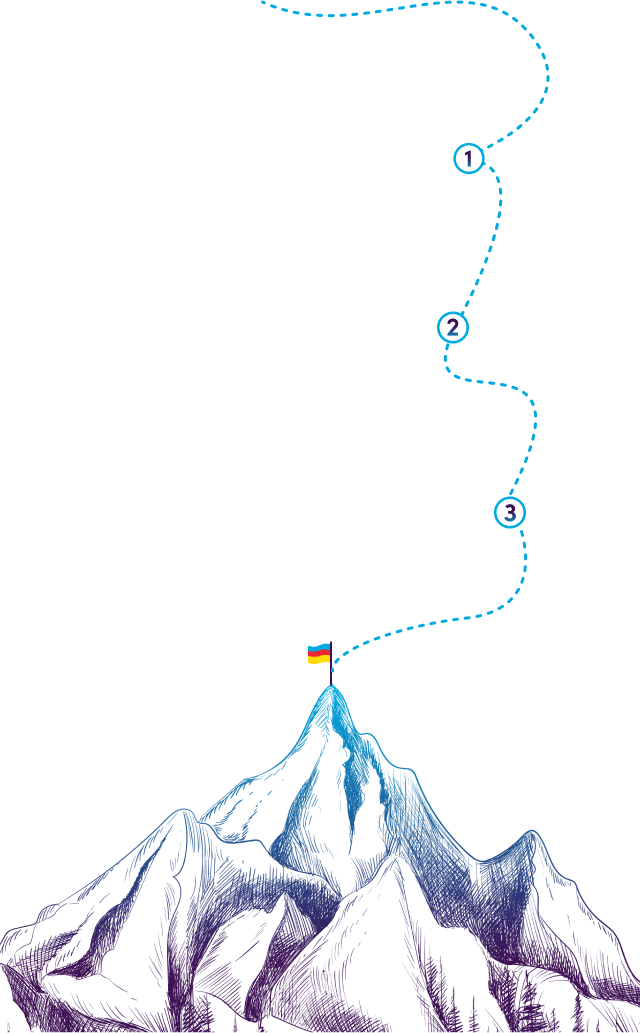
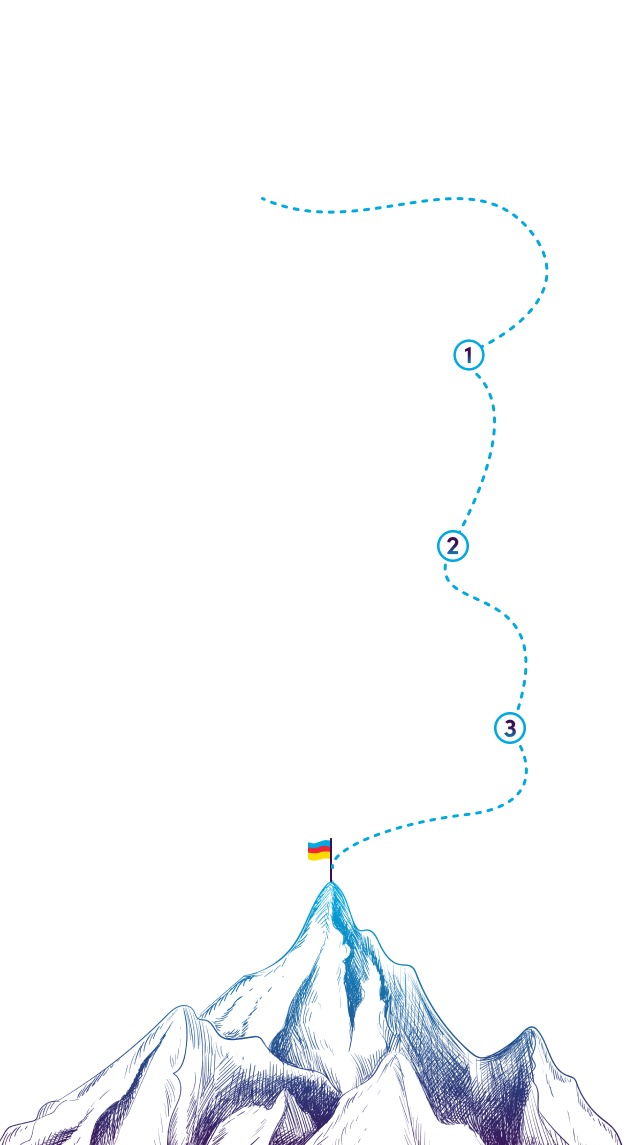
[SW-193] What we do page adjustments has been fully implemented

diff --git a/src/modules/what-we-do/OurSteps/index.jsx b/src/modules/what-we-do/OurSteps/index.jsx
@@ -9,23 +9,22 @@ const OurSteps = ({ locale }) => {
   const { t } = useTranslation(locale);
   const { width } = useResponsive();
 
-  const TITLE_BREAKPOINT_WIDTH = 1024;
   const SUBTITLE_BREAKPOINT_WIDTH = 640;
   return (
-    <section className="relative w-[1279px] h-[1292px]">
-        <div className="w-full bg-what-we-do-steps sm:bg-what-we-do-steps-sm lg:bg-what-we-do-steps-lg xl:bg-what-we-do-steps-xl bg-center bg-no-repeat absolute h-full -top-9 bg-origin-content" style={{ zIndex: -1 }} />
+    <section className="relative">
+        {/* <div className="w-full bg-what-we-do-steps sm:bg-what-we-do-steps-sm lg:bg-what-we-do-steps-lg xl:bg-what-we-do-steps-xl bg-center bg-no-repeat absolute h-full -top-9 bg-origin-content" style={{ zIndex: -1 }} /> */}
         <div className="mt-6">
-          <p className="font-poppins lg:text-base font-normal text-black">
+          <p className="font-poppins text-custom-base font-normal text-black">
             {t("what_we_do.stepsToTheTop.descriptionOne")}
           </p>
-          <p className="font-poppins lg:text-base font-normal text-black">
+          <p className="font-poppins text-custom-base font-normal text-black">
             {t("what_we_do.stepsToTheTop.descriptionTwo")}
           </p>
-          <p className="font-poppins lg:text-base font-bold text-black">
+          <p className="font-poppins text-custom-base font-bold text-black">
             {t("what_we_do.stepsToTheTop.descriptionThree")}
           </p>
         </div>
-        <div className="max-w-[270px] sm:max-w-[420px] lg:max-w-[665px] xl:max-w-[834px] w-full mt-[72px]">
+        <div className="max-w-[270px] sm:max-w-[380px] md:max-w-[420px] lg:max-w-[665px] xl:max-w-[834px] w-full mt-[49px] lg:mt-[72px]">
           {width < SUBTITLE_BREAKPOINT_WIDTH ? (
             <Title
               content={t("what_we_do.weExploreTheProyect.titleOne")}
@@ -42,15 +41,15 @@ const OurSteps = ({ locale }) => {
           )}
 
           <div className="mt-6">
-            <p className="font-poppins text-sm lg:text-base font-normal text-black">
+            <p className="font-poppins text-mobile lg:text-custom-base font-normal text-black">
               {t("what_we_do.weExploreTheProyect.descriptionOne")}
-              <span className="font-poppins text-sm lg:text-base font-bold text-black">
+              <span className="font-poppins text-mobile lg:text-custom-base font-bold text-black">
                 {t("what_we_do.weExploreTheProyect.descriptionTwo")}
               </span>
             </p>
           </div>
         </div>
-        <div className="max-w-[270px] sm:max-w-[420px] lg:max-w-[665px] xl:max-w-[834px] w-full mt-16">
+        <div className="max-w-[270px] sm:max-w-[380px] md:max-w-[420px] lg:max-w-[665px] xl:max-w-[834px] w-full mt-[56px] xl:mt-16">
           {width < SUBTITLE_BREAKPOINT_WIDTH ? (
             <Title
               content={t("what_we_do.weDesignYourProduct.titleOne")}
@@ -67,15 +66,15 @@ const OurSteps = ({ locale }) => {
           )}
 
           <div className="mt-6">
-            <p className="font-poppins text-sm lg:text-base font-normal text-black">
+            <p className="font-poppins text-mobile lg:text-custom-base font-normal text-black">
               {t("what_we_do.weDesignYourProduct.descriptionOne")}
-              <span className="font-poppins text-sm lg:text-base font-bold text-black">
+              <span className="font-poppins text-mobile lg:text-custom-base font-bold text-black">
                 {t("what_we_do.weDesignYourProduct.descriptionTwo")}
               </span>
             </p>
           </div>
         </div>
-        <div className="max-w-[270px] sm:max-w-[420px] lg:max-w-[665px] xl:max-w-[834px] w-full mt-16">
+        <div className="max-w-[270px] sm:max-w-[380px] md:max-w-[420px] lg:max-w-[665px] xl:max-w-[834px] w-full mt-[56px] xl:mt-16">
           {width < SUBTITLE_BREAKPOINT_WIDTH ? (
             <Title
               content={t("what_we_do.weDevelopTheSolution.titleOne")}
@@ -92,9 +91,9 @@ const OurSteps = ({ locale }) => {
           )}
 
           <div className="pt-[24px]">
-            <p className="font-poppins text-sm lg:text-base font-normal text-black">
+            <p className="font-poppins text-mobile lg:text-custom-base font-normal text-black">
               {t("what_we_do.weDevelopTheSolution.descriptionOne")}
-              <span className="font-poppins text-sm lg:text-base font-bold text-black">
+              <span className="font-poppins text-mobile lg:text-custom-base font-bold text-black">
                 {t("what_we_do.weDevelopTheSolution.descriptionTwo")}
               </span>
             </p>

diff --git a/src/pages/[locale]/what-we-do/index.jsx b/src/pages/[locale]/what-we-do/index.jsx
@@ -8,17 +8,18 @@ import TransitionWrapper from "@/common/components/TransitionWrapper";
 
 
 export default function WhatWeDo({ locale }) {
-
+  
   const { t } = useTranslation(locale);
-
+  
   return (
     <>
       <HeadTag metaContent={{title: t("metaTags.whatWeDo.title"), description: t("metaTags.whatWeDo.description"), keywords: t("metaTags.whatWeDo.keywords")}} />
-      <TransitionWrapper className="w-full relative h-[fit-content] flex">
-        <div className="section-container w-full container mx-auto flex-col relative">
-          <Intro locale={locale} />
-          <OurSteps locale={locale} />
-          <HowDoWeDoIt locale={locale} />
+      <TransitionWrapper className="w-full h-full relative flex">
+        <div className={`bg-what-we-do-steps sm:bg-what-we-do-steps-sm lg:bg-what-we-do-steps-lg xl:bg-what-we-do-steps-xl bg-center bg-no-repeat absolute w-full ${locale !== 'en' ? 'top-0' : '-top-2'} sm:top-0 bg-origin-content h-[1287px] sm:h-[1145px] lg:h-[1250px] xl:h-[1249px]`} style={{ zIndex: -1 }} />
+        <div className="container section-container w-full mx-auto flex-col">
+        <Intro locale={locale} />
+        <OurSteps locale={locale} />
+        <HowDoWeDoIt locale={locale} />
         </div>
       </TransitionWrapper>
     </>

diff --git a/src/modules/what-we-do/Intro/index.jsx b/src/modules/what-we-do/Intro/index.jsx
@@ -11,8 +11,7 @@ const Intro = ({ locale }) => {
   const { t } = useTranslation(locale);
   const { width } = useResponsive();
   const TITLE_BREAKPOINT_WIDTH = 1024;
-
-
+  
   return (
     <section className="w-full">
       {width < TITLE_BREAKPOINT_WIDTH ? (
@@ -31,9 +30,9 @@ const Intro = ({ locale }) => {
             height="h-[40px]"
           />
         )}
-      <p className="font-poppins text-sm lg:text-base font-normal text-black mt-6">
+      <p className="font-poppins text-mobile lg:text-custom-base font-normal text-black mt-6 w-full max-w-[328px] sm:max-w-[558px] lg:max-w-none">
         <strong>{t("what_we_do.intro.descriptionOne")}</strong>
-        {t("what_we_do.intro.descriptionTwo")}
+        {(t("what_we_do.intro.descriptionTwo"))}
       </p>
     </section>
   );

diff --git a/src/modules/what-we-do/HowWeDoIt/index.jsx b/src/modules/what-we-do/HowWeDoIt/index.jsx
@@ -10,7 +10,7 @@ const HowDoWeDoIt = ({ locale }) => {
   const { t } = useTranslation(locale);
 
   return (
-    <section>
+    <section className={`mt-[324px] ${locale !== 'en' ? 'mt-[324px]' : 'mt-[364px]'} sm:mt-[389px] lg:mt-[528px] xl:mt-[551px]`}>
       <Title
         content={t("what_we_do.HowDoWeDoIt.titleOne")}
         size="text-[26px] lg:text-[32px]"

diff --git a/src/styles/globals.css b/src/styles/globals.css
@@ -462,4 +462,15 @@
   .accordion--shadow {
     box-shadow: 10px 10px 25px rgba(61, 17, 82, 0.15);
   }
+
+  
+  /* TODO: APPLY THESE CLASSES ON MOST OF WEB TEXTS */
+
+  .text-mobile {
+    @apply text-[13px] leading-[16.9px];
+  }
+
+  .text-custom-base {
+    @apply text-[16px] leading-[20.8px];
+  }
 }
